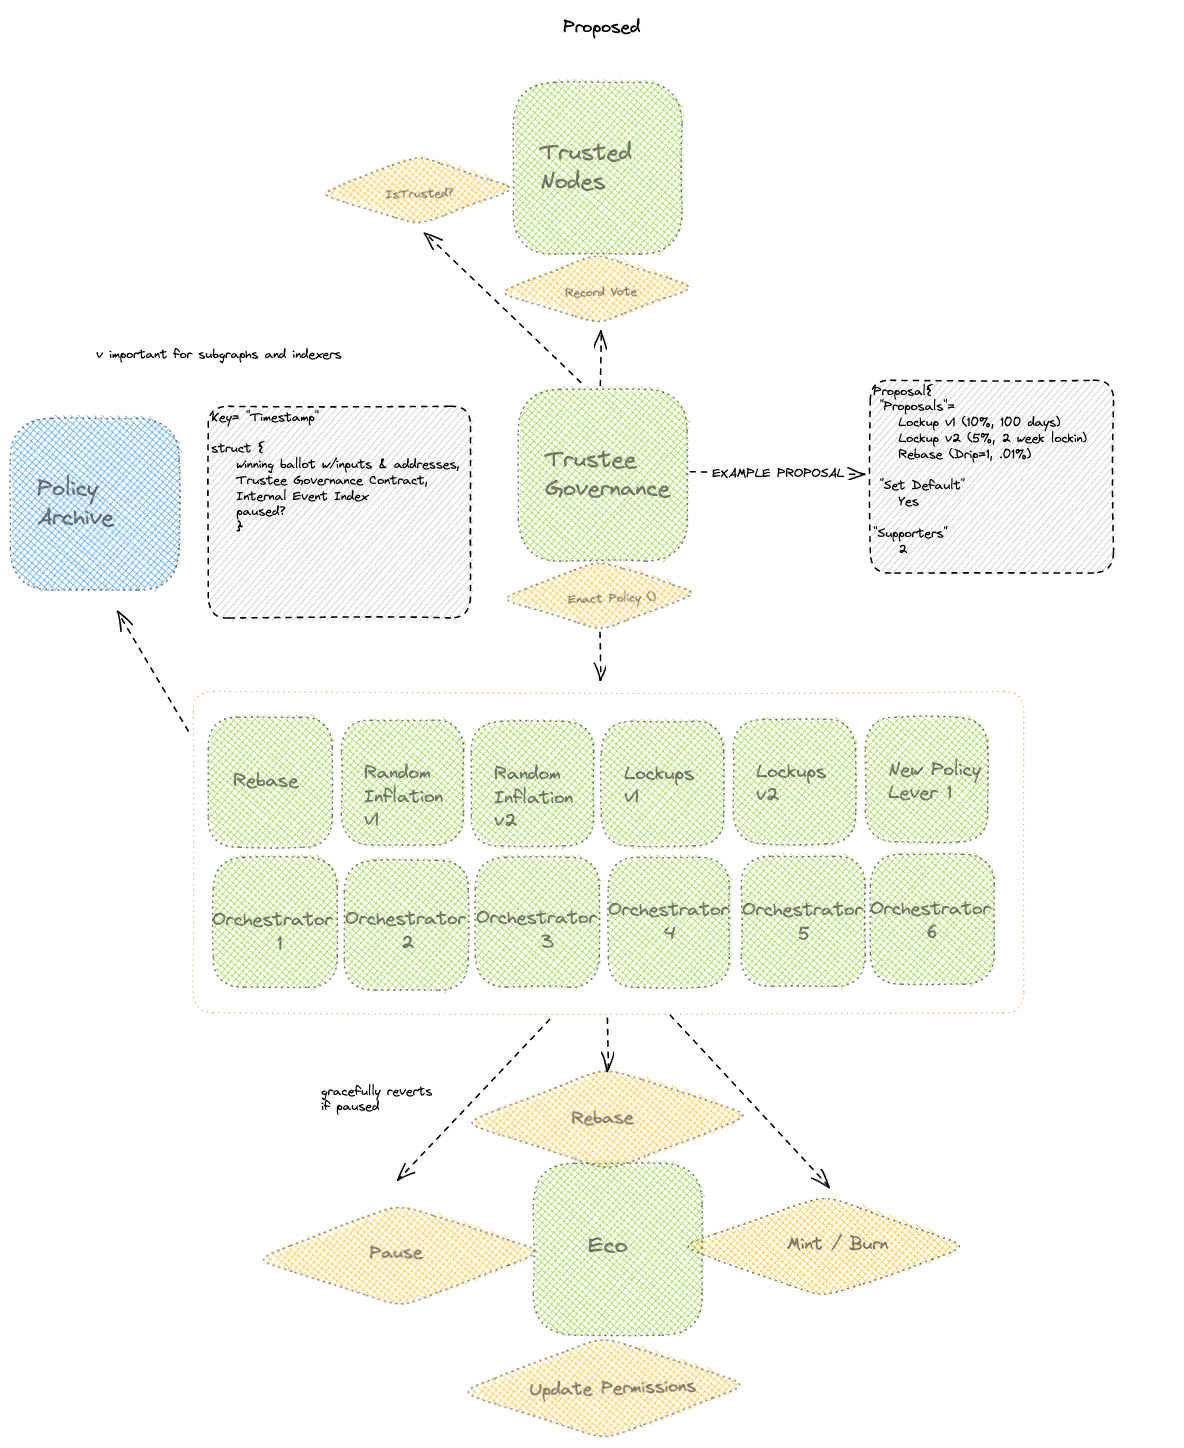
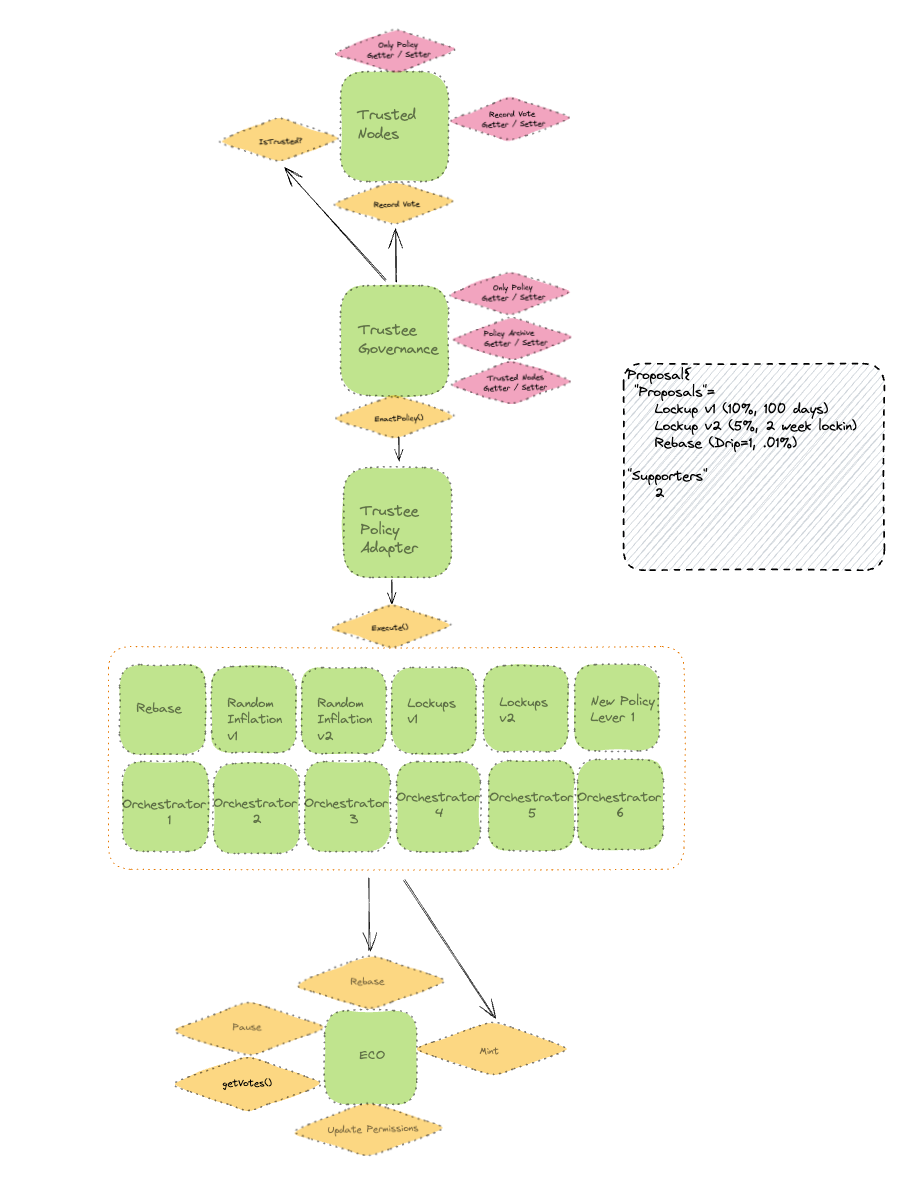
Incorporate Implementation feedback to contracts README.md

diff --git a/contracts/README.md b/contracts/README.md
@@ -91,13 +91,13 @@ In this section we will consider the changes for the Monetary Governance process
 
 Below is the proposed redesign. The redesign makes the following key changes:
 
-- Replace proxies with system of Getter / Setters
-  - As described in the section on permission based authorization, almost all contracts (other than ECO, ECOx and the Root Policy Address) will be de-proxied and converted into the permission based authorization model.
+- Replace proxies with a system of Getter / Setters
+  - As described in the section on permission-based authorization, almost all contracts (other than ECO, ECOx and the Root Policy Address) will be de-proxied and converted into the permission-based authorization model.
   - All core contracts will have “getter” and “setter” functions. “Getter” functions will allow external contracts and EOAs to read the neighbors of contracts. “Setter” functions will allow an authorized setter (almost always the Root Policy Address), to set the downstream dependencies for various specified function calls.
-  - All contracts will have a “Only Policy” and “Only Policy” function, which will specify the designated contract that can change any role in the contract.
-- Eliminate Currency Timer → TrusteeGovernance maintains bi-weekly cycle through internal timelocks
+  - All contracts will have an “Only Policy” and “Only Policy” function, which will specify the designated contract that can change any role in the contract.
+- Eliminate Currency Timer → TrusteeGovernance maintains a bi-weekly cycle through internal timelocks
   - Instead of maintaining a monolithic generation timer, this architecture proposes the Monetary Governance timer to be managed independently of the Currency Governance timer.
-  - This specification proposes that this is done using an internal enumeration in the TrusteeGovernance contract, which cycles through the stages each Monetary Policy cycle. All other contracts will be agnostic to this cycle, and not need to know about the specific timing of the cycle.
+  - This specification proposes that this is done using an internal enumeration in the TrusteeGovernance contract, which cycles through the stages of each Monetary Policy cycle. All other contracts will be agnostic to this cycle, and not need to know about the specific timing of the cycle.
   - This also means that the concept of a “generation” for a Monetary Policy cycle will not be unique, but internal to each TrusteeGovernance contract, which will contain its own monotonic counter that will act as a sort of “generation” counter for that contract.
   - Each TrustedNodes Contract holds one cohort
     Instead of requiring the TrustedNodes contract to track multiple cohorts (or elected Trustee groups), the Permission-Based authorization model allows for each cohort to be deployed and elected with a new contract.
@@ -110,7 +110,7 @@ Below is the proposed redesign. The redesign makes the following key changes:
     - Alternatively, the TrusteeGovernance contract could contain a whitelist of addresses that would define which downstream contracts were allowed to be called by the TrusteeGovernance contract.
     - Either implementation makes the monetary policy functions toolkit flexible enough to accommodate different governance entities responsible for each function. For example, Trustees could control rebasing and lockups, and a specific fiscal policy group could control random inflation.
 - Orchestrators are “per policy”
-  - Each policy comes with its own orchestrator. This makes it easy to swap out orchestrators, and to deploy new policy levers without dealing with old ones.
+  - Each policy comes with its own orchestrator. This makes it easy to swap out orchestrators and to deploy new policy levers without dealing with old ones.
 - Pausing only lives on Eco
   - In this architecture, pausing lives in the Eco contracts and upstream contracts are agnostic to whether Eco is paused or not. In this situation, Eco gracefully returns a falsy value to the monetary policy levers if it is paused, and TrusteeGovernance continues as usual.
   - In this sense, “pausing” Eco would only pause the rebase, mint, burn, and transfer (and transferVotingPower) functions in Eco
@@ -126,9 +126,9 @@ The responsibility of TrustedNodes in this system is to manage the current cohor
 - Keeps track of a given cohort of Trustees
 - Sets the Trustee term
 - Allows addition or removal of individual Trustees from the cohort
-- Allows for claiming of ECOx rewards, and correctly gates them from the voting record.
+- Allows for claiming of ECOx rewards and correctly gates them from the voting record.
 - Keeps track of each Trustees voting record
-- Contains appropriate getter / setters for downstream callers
+- Contains appropriate getters/setters for downstream callers
 
 Below is a diagram of the TrustedNodes contract with its neighbor, TrusteeGovernance. TrustedNodes only needs Getter/Setter functions for the “Only Policy” role, which is authorized to change any other roles, and “Record Vote” role, which is authorized to call the “recordVote” function.
 
@@ -136,19 +136,19 @@ Below is a diagram of the TrustedNodes contract with its neighbor, TrusteeGovern
 
 #### TrusteeGovernance
 
-The TrusteeGovernance contract is responsible for tracking the Monetary Governance cycle and facilitating the voting process for Trustees. It is also responsible for calling the downstream monetary policy functions, and recording the result of the cycle in the policy archive. Specifically, the TrusteeGovernance contract:
+The TrusteeGovernance contract is responsible for tracking the Monetary Governance cycle and facilitating the voting process for Trustees. It is also responsible for calling the downstream monetary policy functions and recording the result of the cycle in the policy archive. Specifically, the TrusteeGovernance contract:
 
 - Keeps track of the voting stage in an enum
 - Contain an internal monotonic counter to track the internal voting cycle number
 - Allows Trustees to submit and withdraw proposals. Proposals contain an array of downstream function calls that Trustees vote on.
 - Allows Trustees to “support” proposals, per the change to the Borda Process being implemented now.
 - Allows Trustees to vote on proposals in a commit stage (like we have now). Commits are hashes, to prevent tactical voting on behalf of the other Trustees. Commits can be overwritten until the reveal phase.
-- Allows Trustees to reveal their actual votes, which also cross references the hash of their commits.
+- Allows Trustees to reveal their actual votes, which also cross-references the hash of their commits.
 - Calculate the winner of the vote, using the modified Borda Count process (that accounts for support transactions).
 - Enacts the results of the Trustee voting using a supervisor function. This supervisor function would replace notifyGenerationIncrement.
   - Care should be taken if any downstream function call reverts. It should still increment the counter and reset the voting, in case there is an issue with a downstream lever.
 
-![Trustee Governance](../docs/assets/trustee-governance.png "Trusted Governance")
+![Trustee Governance](../docs/assets/trustee-governance.png "Trustee Governance")
 
 Above is a diagram of the TrusteeGovernance contract with its neighbors, TrustedNodes, PolicyArchive and the Monetary Policy Functions. The TrusteeGovernance contract needs Getter/Setter functions for the “Only Policy” role, which is authorized to change any other roles, the “Policy Archive” role, and the “TrustedNodes” role.
 
@@ -239,25 +239,6 @@ The responsibility of the RootPolicy contract in this system is to manage the co
 ![Root Policy](../docs/assets/root-policy.png "Root Policy")
 
 The main changes in this implementation are:
-
-- Compound Bravo-Like Governance
-
-  - Instead of uploading arbitrary bytecode per proposal, which increases the complexity and danger of executing proposals, ECO 1.5 proposes that Eco Upgrade Proposals are submitted like [Compound Bravo](https://docs.compound.finance/v2/governance/) proposals. Each proposal would contain a couple arrays that would define the specific downstream functions and contracts to call in sequence.
-  - [Here](https://docs.compound.finance/v2/governance/#propose) is how [Compound Bravo](https://github.com/compound-finance/compound-protocol/tree/master/contracts/Governance) passes in proposal arguments:
-
-  ```solidity
-    function propose(address[] memory targets, uint[] memory values, string[] memory signatures,
-
-  - bytes[] memory calldatas, string memory description) returns (uint)
-  targets: The ordered list of target addresses for calls to be made during proposal execution. This array must be the same length as all other array parameters in this function.
-  - values: The ordered list of values (i.e. msg.value) to be passed to the calls made during proposal execution. This array must be the same length as all other array parameters in this function.
-  - signatures: The ordered list of function signatures to be passed during execution. This array must be the same length as all other array parameters in this function.
-  - calldatas: The ordered list of data to be passed to each individual function call during proposal execution. This array must be the same length as all other array parameters in this function.
-  - description: A human readable description of the proposal and the changes it will enact.
-  - RETURN: The ID of the newly created proposal.
-  ```
-
-  - So similar to the above, EcoGovernance Proposals would pass in vectors that define downstream contracts, inputs, signatures and calldata.
 
 - Add getter/setter functions for EcoGovernance
   - Root policy only needs one getter/setter role to define who can call functions for it to execute.
@@ -477,22 +458,7 @@ Making this system flash loan proof can be done in 2 ways.
    1. Proposers can't propose random inflation if a snapshot is occurring soon (would require linkage between EcoGovernance and Inflation contract, which is unideal)
    2. Inform proposers they will get rugged, and adjust the supervisor to not challenge if snapshot is coming up (prefer this)
 
-   **Further Improving this in Eco 2.0**
-
-   I don’t want to add this to 1.5, but this idea could work in 2.0. Right now, the standard ERC20Votes implementation does not track voting power if you don’t delegate. This means to vote, you have to delegate to yourself.
-
-   ![After Token Transfer](../docs/assets/after-token-transfer.png "After Token Transfer")
-
-   ![After Token Transfer](../docs/assets/after-token-transfer-1.png "After Token Transfer")
-
-   We could implement this same feature into the system above. In addition, we would give all “untracked voting power” to “tracked voting power” members. You are essentially choosing to have more expensive transfers, but you are rewarded with the voting power of accounts who don’t want their voting power. The benefits of this potential approach are:
-
-   - No delegate means transfers are cheaper but you have no voice.
-   - Distribute voting power from voters who don't care --> voters who care
-   - Contracts by default have no delegate, therefore contract interactions are cheaper. Contracts don’t become “sinks” for voting power, and the protocol can’t get “stuck” easily.
-   - Below the 3 main stages are shown in this system. In most cases, a user is paying significantly less than the initial Eco implementation, and they are given the ability to choose cheaper transfers or more voice.
-
-   ![Transfer Flow](../docs/assets/transfer-flow.png "Transfer Flow")
+Furthermore, tracking voting power is becoming opt-in for ECO 1.5. This further reduces the cost for mainnet transfers and swaps unless an individual chooses to do so.
 
 ### Open Questions
 
@@ -500,13 +466,12 @@ Making this system flash loan proof can be done in 2 ways.
    1. There is a compromise where we whitelist functions and we use if / match statements to call functions in a loop.
 2. Should we consider dropping the support threshold each generation if a proposal doesn’t pass muster?
 3. Where else can we compact values using uint256 compaction?
-4. Should we have variable length timing in EcoGovernance?
-5. Do we need Getter / Setters for proxied contracts?
+4. Do we need Getters/Setters for proxied contracts?
 
 ### Additional Open
 
 1. Default proposal option for proposals?
-2. Should Trustees overwrite their proposals / commits / votes each stage to save gas?
+2. Should Trustees overwrite their proposals/commits/ votes each stage to save gas?
 3. Should we change or optimize the policy levers with this change or no? Some potential optimizations: Random inflation (1 claim), Rebasing drip, Lockups with a longer entry period, etc.
 4. Where should orchestrators live?
 5. How should we deal with upgrades that need to be correctly timed?
